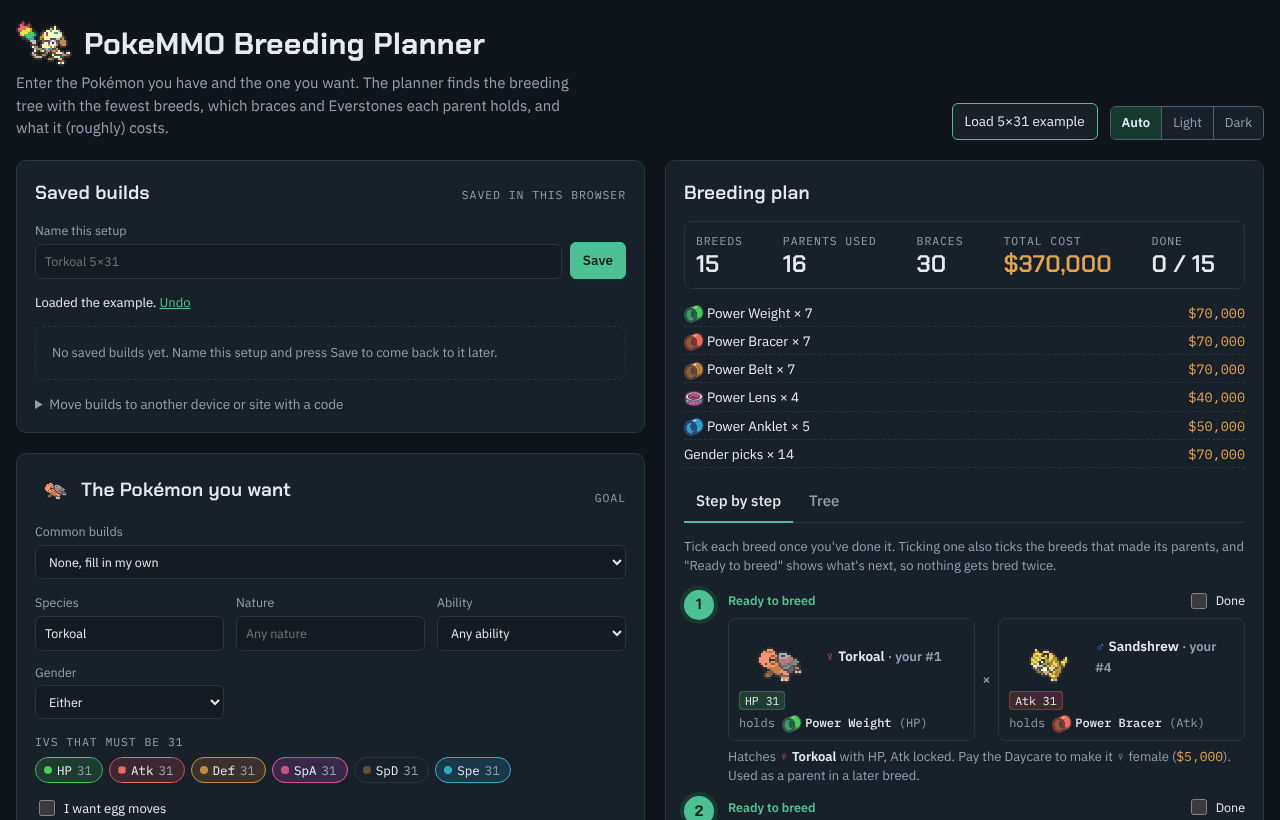
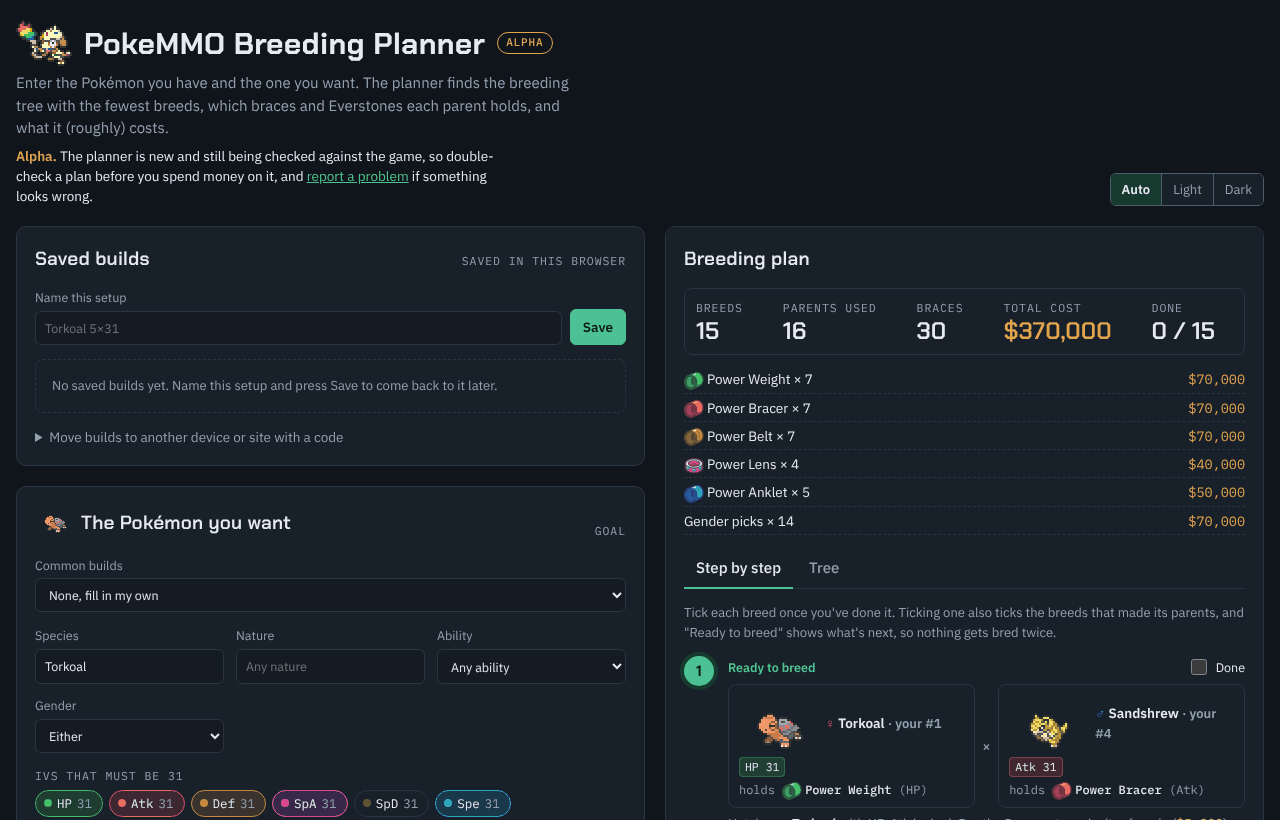
remove button entirely

diff --git a/src/page.html b/src/page.html
@@ -296,7 +296,6 @@ try { const t = localStorage.getItem('pokemmo-breeding-theme'); if (t === 'light
       <p class="alpha-note"><b>Alpha.</b> The planner is new and still being checked against the game, so double-check a plan before you spend money on it, and <a href="https://github.com/ssmith130/PokeMMOBreeder/issues/new" target="_blank" rel="noopener">report a problem</a> if something looks wrong.</p>
     </div>
     <div class="row">
-      <button class="btn" id="ex-5x31" type="button">Load 5×31 example</button>
       <div class="seg" role="group" aria-label="Theme"><button type="button" data-theme-set="auto">Auto</button><button type="button" data-theme-set="light">Light</button><button type="button" data-theme-set="dark">Dark</button></div>
     </div>
   </header>
@@ -493,17 +492,6 @@ function torkoalExample() {
       { id: uid++, species: 'Sandshrew', gender: 'M', ivs: [null, 31, null, null, null, null], nature: '', ability: '', moves: [], qty: 1 },
     ],
   };
-}
-function fiveExample() {
-  const mons = [];
-  // 8 females and 8 males with one 31 each: exactly the 16 parents a 5x31 needs
-  const stat = [0, 1, 2, 3, 5], fem = [2, 2, 2, 1, 1], male = [2, 2, 1, 1, 2];
-  stat.forEach((s, j) => {
-    const iv = [null, null, null, null, null, null]; iv[s] = 31;
-    mons.push({ id: uid++, species: 'Torkoal', gender: 'F', ivs: iv.slice(), nature: '', ability: '', moves: [], qty: fem[j] });
-    mons.push({ id: uid++, species: 'Sandshrew', gender: 'M', ivs: iv.slice(), nature: '', ability: '', moves: [], qty: male[j] });
-  });
-  return { target: { species: 'Torkoal', ivs: [31, 31, 31, 31, null, 31], gender: 'A', nature: '', ability: '', wantMoves: false, moves: [] }, mons, extras: [] };
 }
 
 // Everything a saved build or build code holds, cleaned up so a damaged or old copy can't break the page.
@@ -741,14 +729,6 @@ $('add-mon').addEventListener('click', () => {
   renderMons(); changed(); focusField(state.mons[state.mons.length - 1].id, 'species');
 });
 $('clear-mons').addEventListener('click', () => { state.mons = []; renderMons(); changed(); });
-function loadExample(ex) {
-  const prev = { data: buildData(), buildId: state.buildId, name: $('build-name').value };
-  Object.assign(state, ex, { buildId: null, done: [] });
-  $('build-name').value = '';
-  renderAll(); save(); renderBuilds();
-  say('Loaded the example.', () => restoreSetup(prev, 'Back to your previous setup.'));
-}
-$('ex-5x31').addEventListener('click', () => loadExample(fiveExample()));
 
 function changed() { save(); schedule(); syncBuildUi(); renderPreset(); }
 

diff --git a/README.md b/README.md
@@ -11,7 +11,7 @@ breeds: which parents to pair, what each one holds, which gender to pay for, and
 
 **Use it at [smearguru.org](https://smearguru.org).**
 
-![The planner with the 5×31 Torkoal example loaded: the goal on the left, the 15-breed plan and its cost on the right](docs/screenshot.png)
+![The planner with a 5×31 Torkoal plan: the goal on the left, the 15-breed plan and its cost on the right](docs/screenshot.png)
 
 ## Features
 
